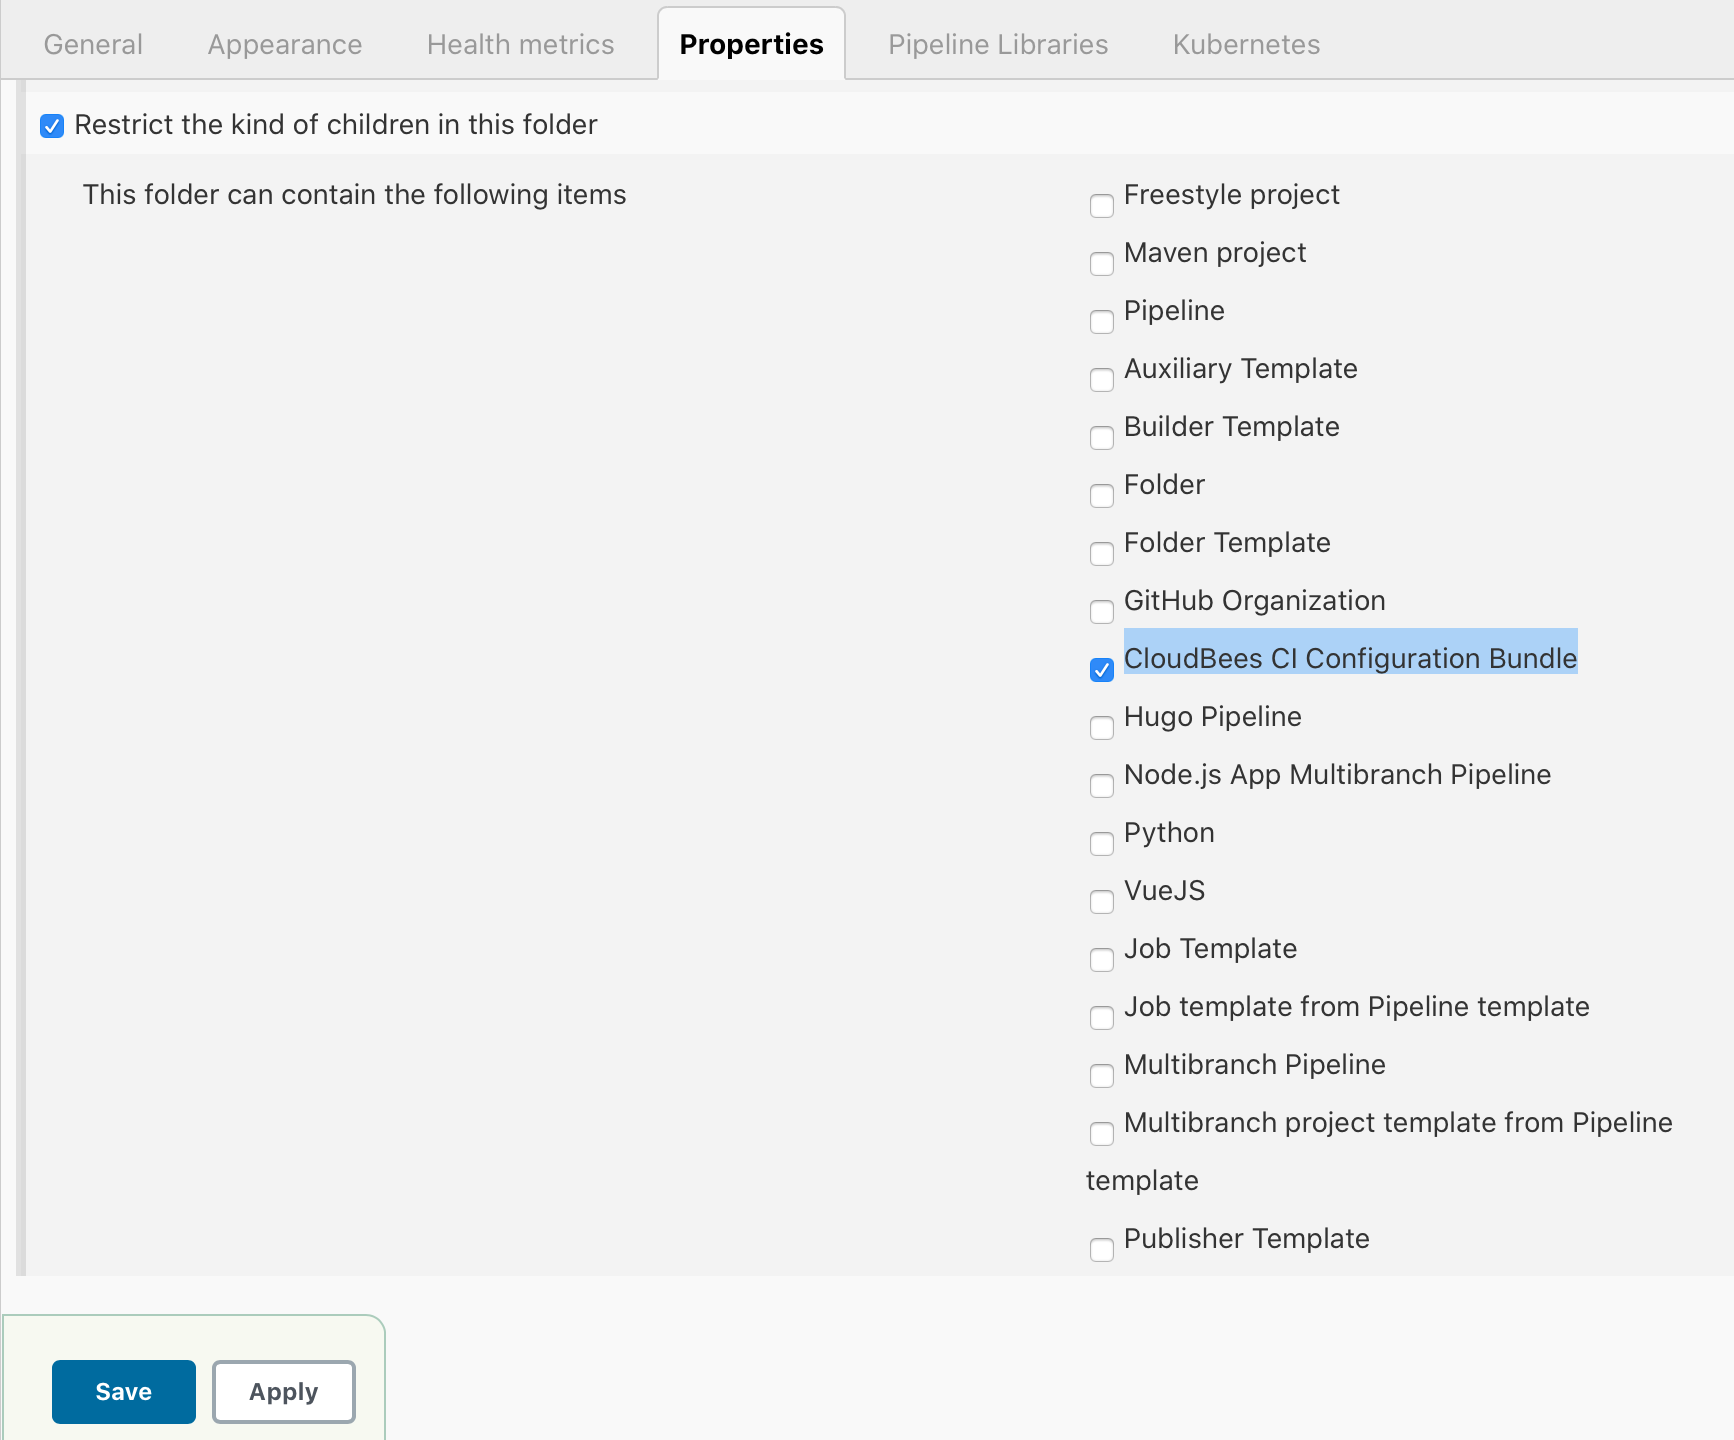
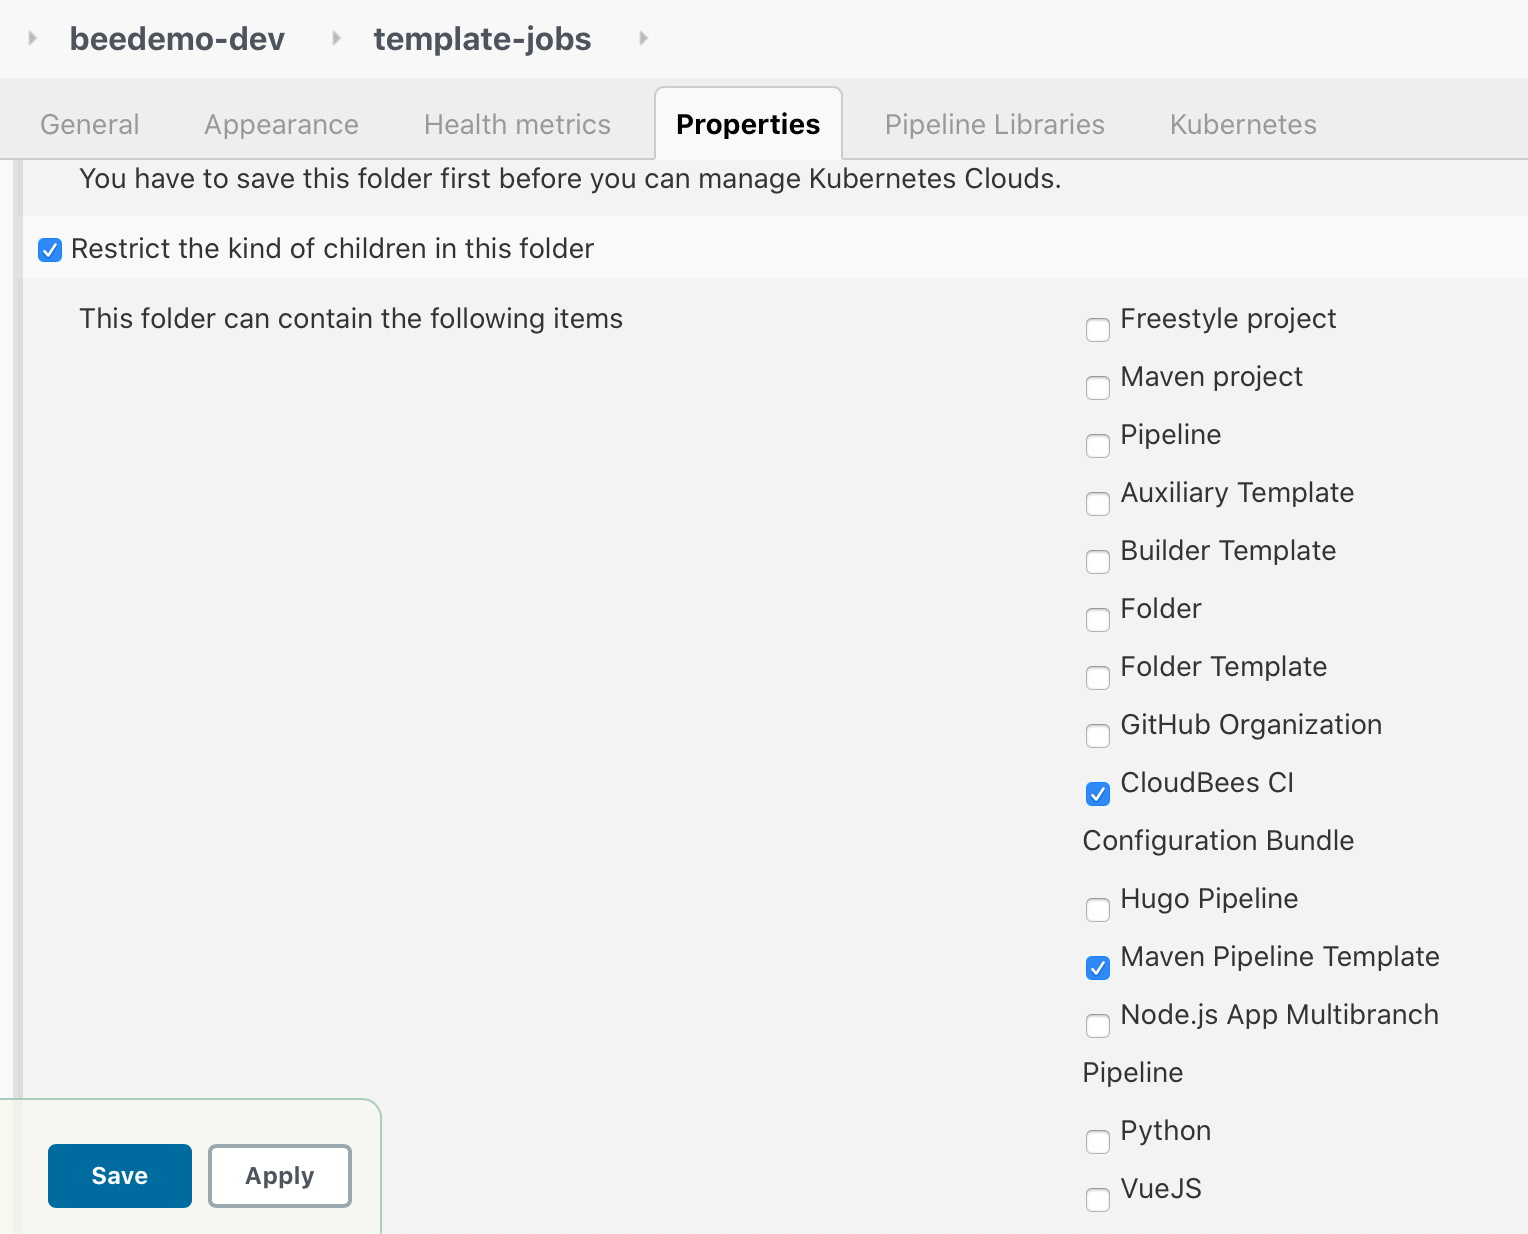
updated pipeline template lab

diff --git a/labs/cloudbees-ci/content/module-1/pipeline-template-catalog.md b/labs/cloudbees-ci/content/module-1/pipeline-template-catalog.md
@@ -37,6 +37,6 @@ The CloudBees CI Folders Plus feature allows you to restrict the type of items
 1. Navigate back to the top-level of your CloudBees CI managed controller (Jenkins instance) and click on **New Item** in the left menu.
 2. For the **item name** enter ***template-jobs***, select **Folder** and then click the **OK** button. <p><img src="new-folder-click.png" width=800/>
 3. Scroll to the bottom of the folder configuration and click on **Restrict the kind of children in this folder** - a [CloudBees Folders Plus](https://docs.cloudbees.com/docs/cloudbees-core/latest/cloud-secure-guide/folders-plus) feature - and then select **CloudBees CI Configuration Bundle** and **Maven Pipeline Template**, and then hit the **Save** button. <p>![Restricted Folder Items](restricted-items-check.png?width=60pc)
-4. Now when you click on **New Item** in the **template-jobs** folder you will only have the **CloudBees CI Configuration Bundle** and **Maven Pipeline Template** item types available to select.
+4. Now when you click on **New Item** in the **template-jobs** folder you will only have the **CloudBees CI Configuration Bundle** and **Maven Pipeline Template** item types available to select.<p>![Restricted Folder New Item](restricted-folder-new-item.png?width=60pc)
    
 **For instructor led workshops please returns to the [workshop slides](https://cloudbees-days.github.io/core-rollout-flow-workshop/cloudbees-ci/#31).**
